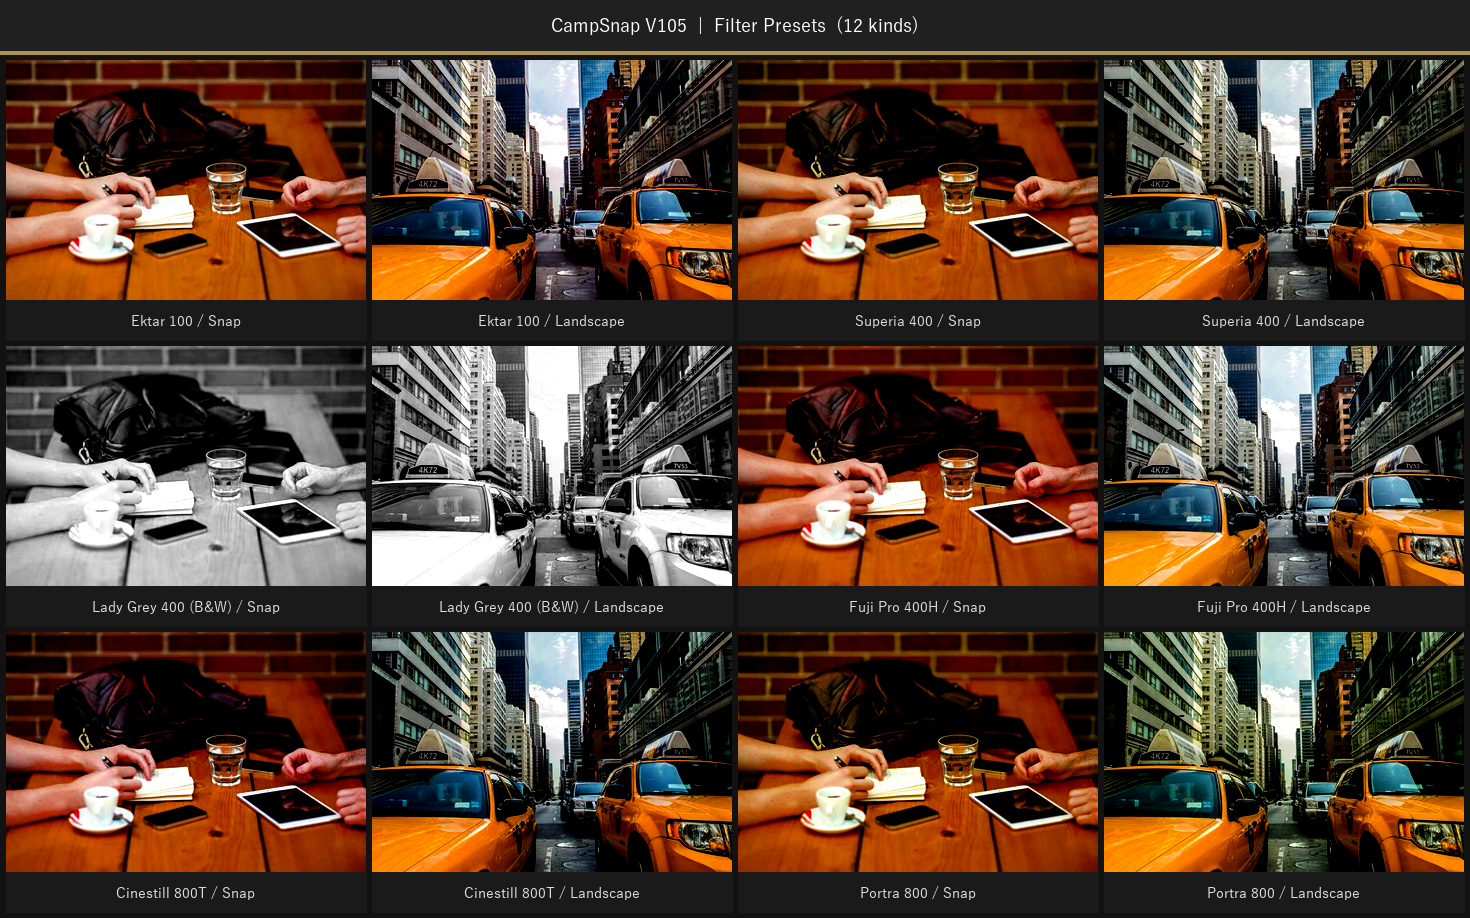
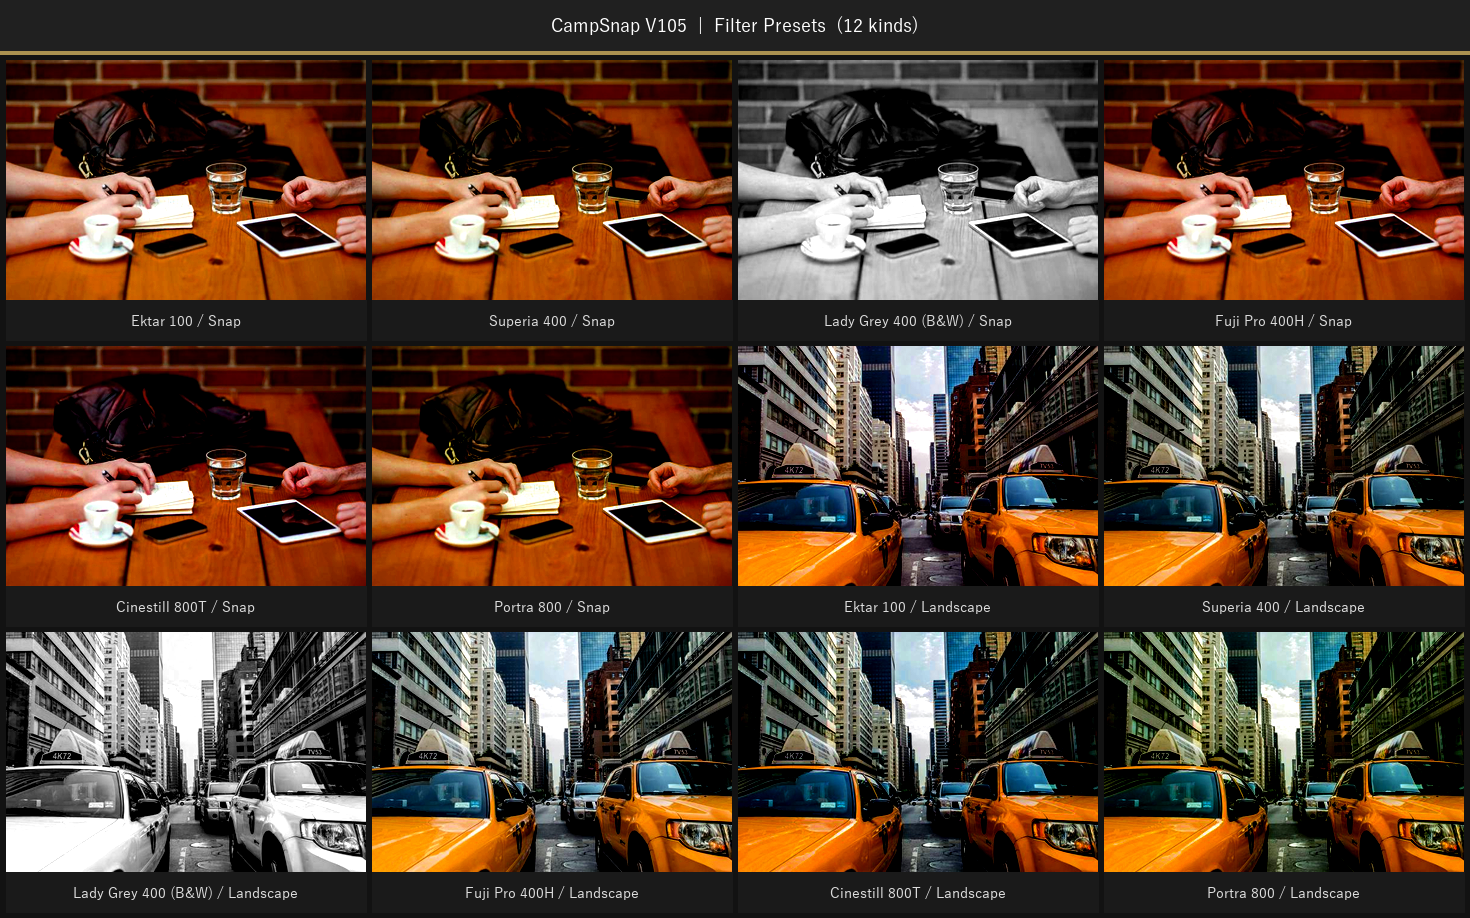
プリセットギャラリーをスナップ→風景の順にグループ化
- filter_gen.py: ギャラリーをスナップ6件・風景6件に分けてセクションヘッダーを追加
- generate_filter_grid.py: グリッドもスナップ→風景の順に並び替え
- filter_preview_grid.png: 新レイアウトで再生成

diff --git a/pages/filter_gen.py b/pages/filter_gen.py
@@ -258,21 +258,29 @@ if presets:
             st.caption("同じ写真に各フィルターを適用したプレビューです。気に入ったフィルターの「✅ 使う」をクリックしてください。")
             previews = _build_preset_previews(_json.dumps(presets, ensure_ascii=False))
             GALLERY_COLS = 3
-            names = list(previews.keys())
-            for row_start in range(0, len(names), GALLERY_COLS):
-                row_names = names[row_start:row_start + GALLERY_COLS]
-                cols = st.columns(GALLERY_COLS)
-                for col, name in zip(cols, row_names):
-                    with col:
-                        st.image(previews[name], use_container_width=True)
-                        st.caption(name)
-                        if st.button("✅ 使う", key=f"gallery_btn_{name}", use_container_width=True):
-                            p = preset_to_flt_params(name)
-                            if p:
-                                st.session_state.params   = p
-                                st.session_state.analyzed = True
-                                st.session_state.warnings = []
-                                st.rerun()
+            snap_names = [n for n in previews if n.endswith("_スナップ")]
+            land_names = [n for n in previews if n.endswith("_風景")]
+
+            def _render_group(names):
+                for row_start in range(0, len(names), GALLERY_COLS):
+                    row_names = names[row_start:row_start + GALLERY_COLS]
+                    cols = st.columns(GALLERY_COLS)
+                    for col, name in zip(cols, row_names):
+                        with col:
+                            st.image(previews[name], use_container_width=True)
+                            st.caption(name)
+                            if st.button("✅ 使う", key=f"gallery_btn_{name}", use_container_width=True):
+                                p = preset_to_flt_params(name)
+                                if p:
+                                    st.session_state.params   = p
+                                    st.session_state.analyzed = True
+                                    st.session_state.warnings = []
+                                    st.rerun()
+
+            st.markdown("**📷 スナップ**")
+            _render_group(snap_names)
+            st.markdown("**🌄 風景**")
+            _render_group(land_names)
 
     st.caption("新しいプリセットを作るには左メニューの「プリセットをつくる」ページへ。")
     st.divider()

diff --git a/generate_filter_grid.py b/generate_filter_grid.py
@@ -103,7 +103,9 @@ def draw_text_centered(draw, text, font, x, y, w, h, color):
 
 def main():
     presets = json.loads(PRESET_FILE.read_text(encoding="utf-8"))
-    keys = list(presets.keys())
+    snap_keys = [k for k in presets if k.endswith("_スナップ")]
+    land_keys = [k for k in presets if k.endswith("_風景")]
+    keys = snap_keys + land_keys
     n = len(keys)
     rows = (n + COLS - 1) // COLS
 
